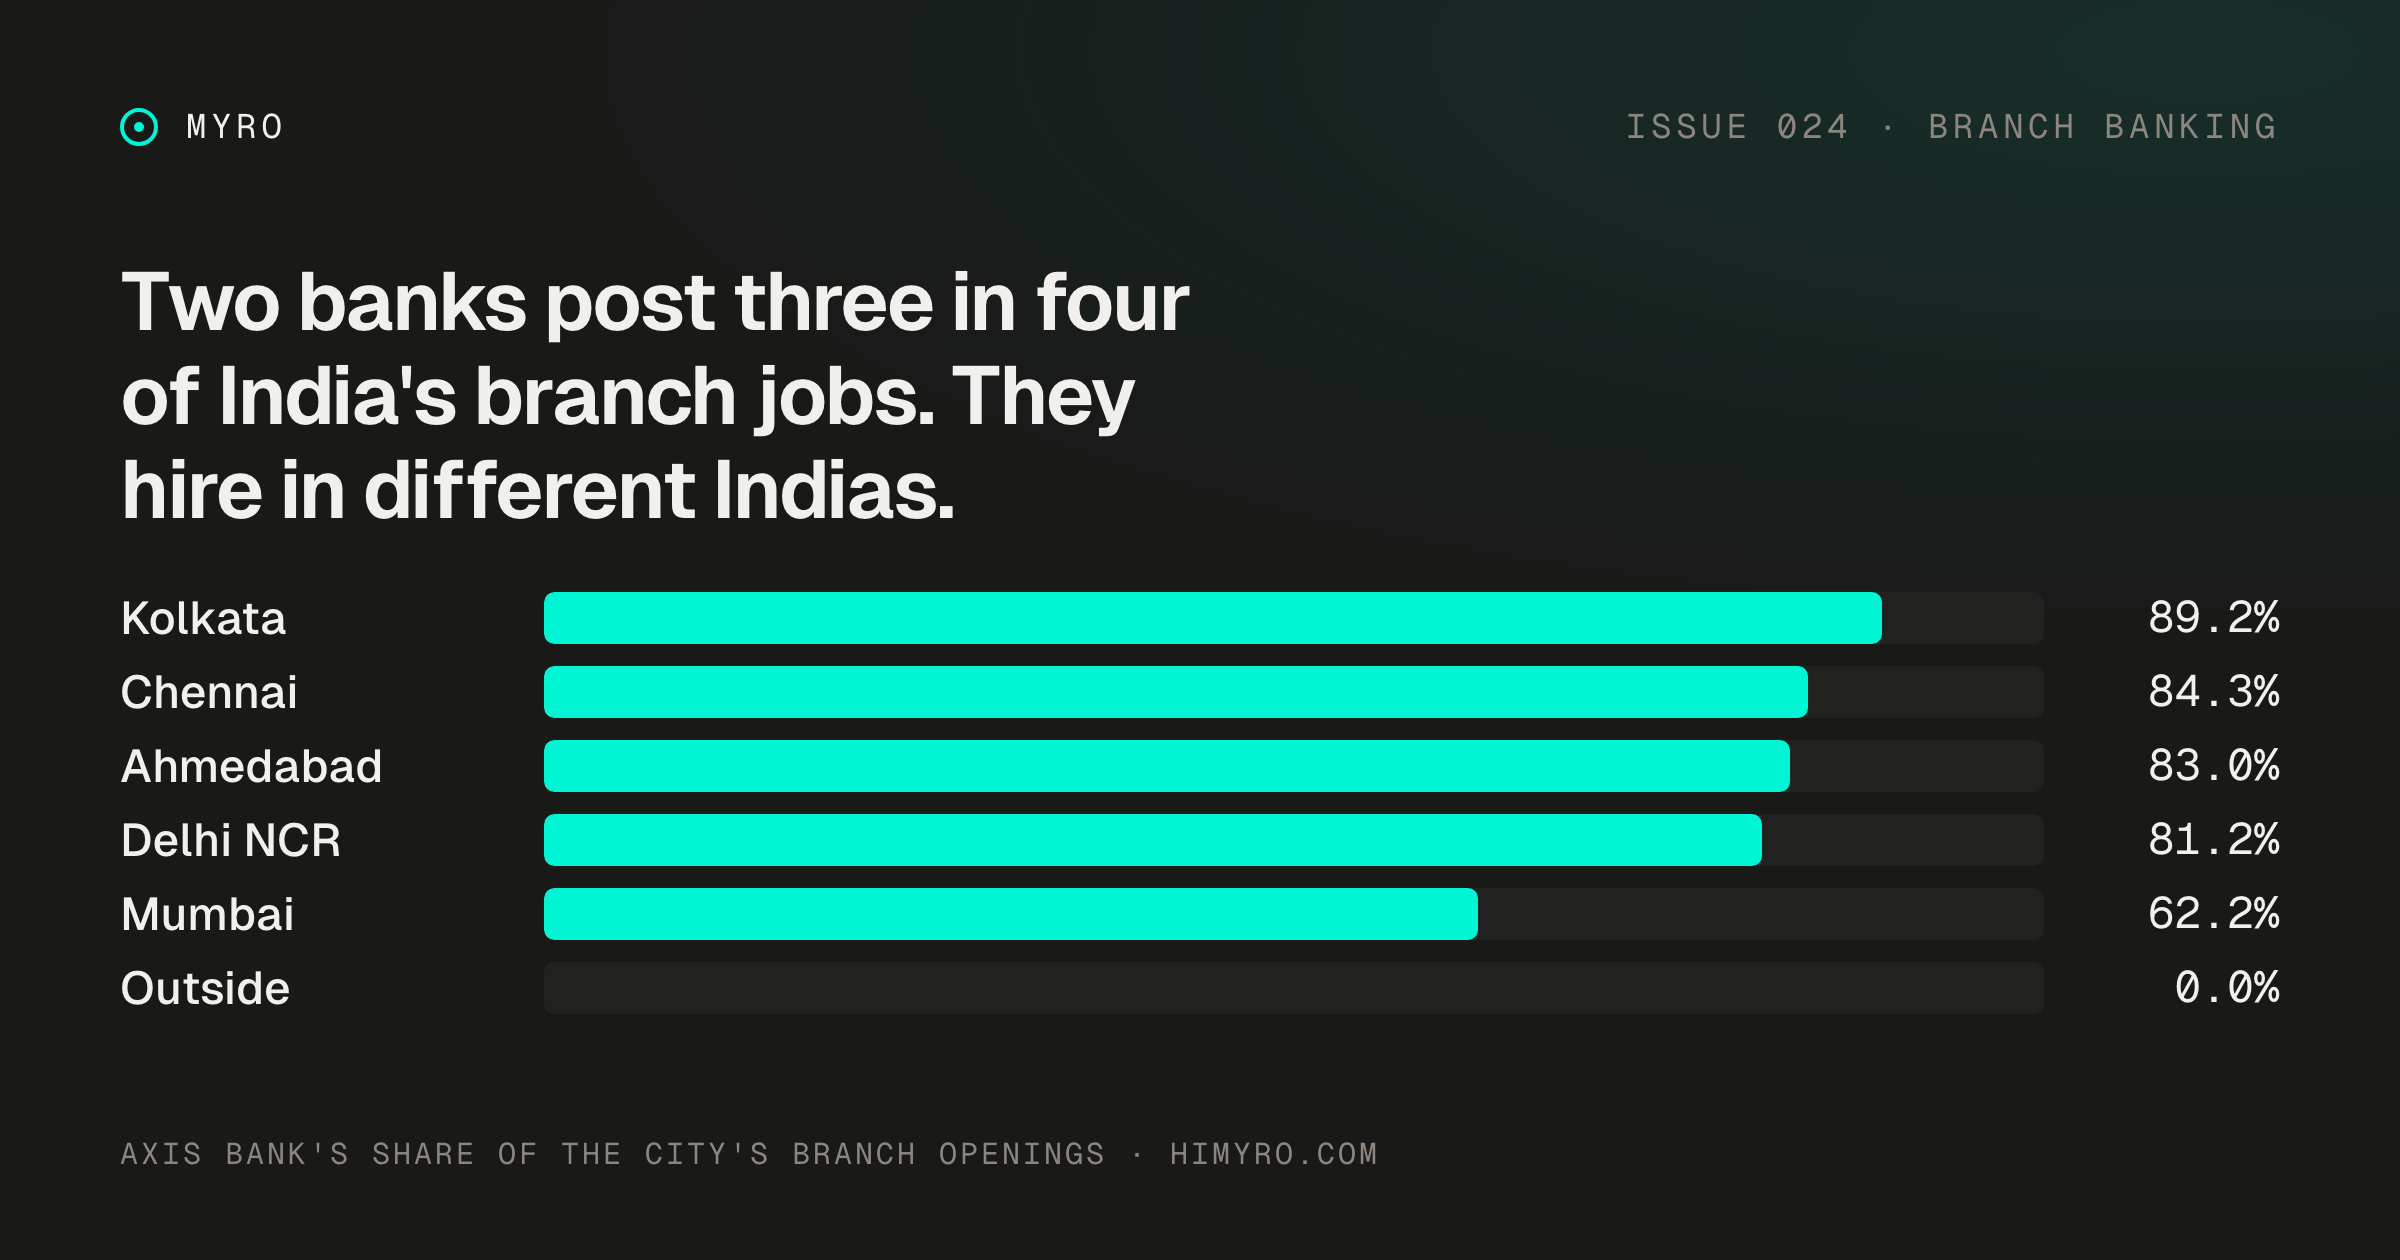
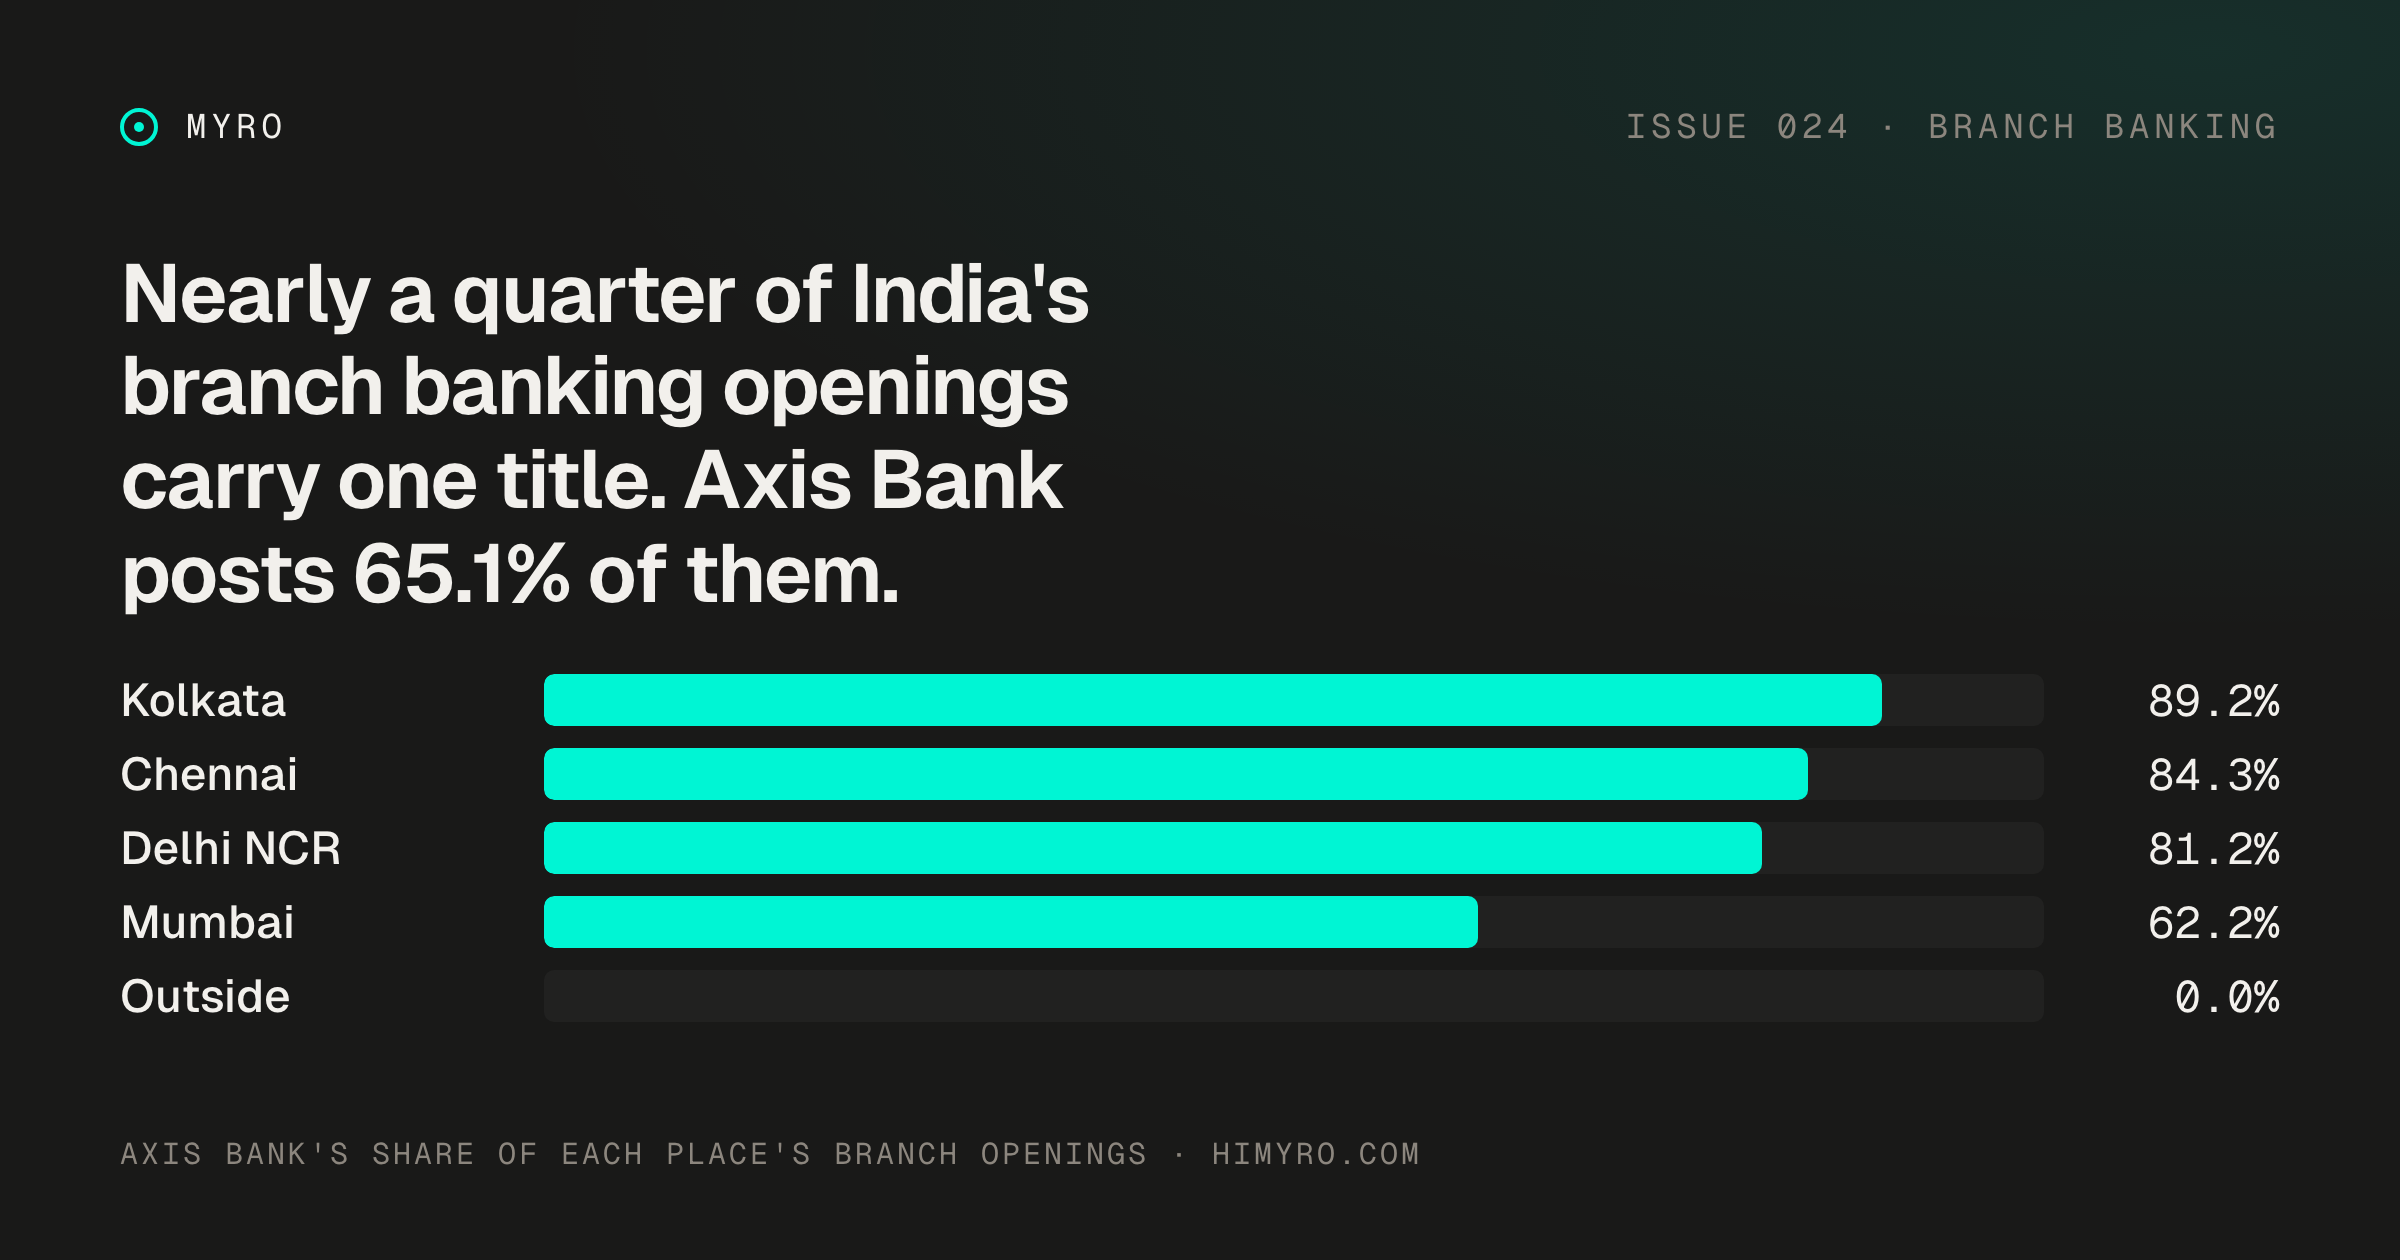
content(newsletter): issue 24 kit and carousel from the v2 text; issue 25 share image, carousel and kit
Issue 24's posting copy and slide spec still carried the v1 headline and the
wrong Kotak claim ("51.9% of its own roles" outside the metros). Both now
follow the published v2 text: 51.9% is Kotak's share of the openings outside
the big metros. The share image is re-rendered with the v2 headline.

Issue 25 gets its 1200x630 share image (employer shares, Big Four bright),
an eight-slide carousel spec with the skills matrix, and the X / LinkedIn /
Instagram copy. Every figure traces to the published article. Nothing posted.

diff --git a/scripts/newsletter-carousel-specs/issue-024-distribution.md b/scripts/newsletter-carousel-specs/issue-024-distribution.md
@@ -1,38 +1,42 @@
 # Issue 024 — where it goes
 
-Heading: Two banks post three in four of India's branch jobs. They hire in different Indias.
+Link: https://www.himyro.com/newsletter/2026-10-branch-banking-two-banks
 
-Chart: Axis Bank's share of each metro's frontline branch openings. Read 9 September 2026. Lane size 3,138.
+Heading: Nearly a quarter of India's branch banking openings carry one title. Axis Bank posts 65.1% of them.
+
+Chart: Axis Bank's share of each place's frontline branch openings. Read 9 September 2026. Lane size 3,138.
 
 ## X
 
-1. Axis Bank holds 65.1% of India's frontline branch jobs. 2,042 postings. It posts 0.0% of its roles outside the big metros.
-2. Kotak holds 10.4% of the lane and posts 51.9% of its own roles outside those metros. Surat 17, Indore 12, Rajkot 9.
-3. Kolkata's branch jobs are 71.4% entry level, at 1.7 years. Outside the metros: 6.9% entry, 3.6 years, 360 roles.
-4. One title is a quarter of the lane. Business Development Associate at Axis: 763 openings, 100% entry level, 1.0 year.
-5. The postings name sales 1,721 times, banking 1,258, lead generation 1,206, financial services 1,160, business development 1,012.
+1. One title is 24.3% of India's frontline branch banking openings. Business Development Associate (RB-LS) at Axis Bank: 763 openings, every one entry level, 1.0 year on average.
+2. Axis Bank posts 65.1% of the lane, 2,042 of 3,138. It leads every big metro, from 62.2% of Mumbai's openings to 89.2% of Kolkata's.
+3. Outside the big metros the picture flips. Axis posts 0.0% of those openings and Kotak posts 51.9%. Surat 17, Indore 12, Rajkot 9.
+4. Kolkata asks for the least: 71.4% entry level, at 1.7 years. Bengaluru is 25.8% entry level, at 4.3 years.
+5. The postings ask for sales (1,721), banking (1,258) and lead generation (1,206). The whole skill list reads like a sales job.
 
 ## LinkedIn
 
-Two banks post three in four of India's branch jobs, and they hire in different Indias.
+Nearly a quarter of India's branch banking openings carry one title, and Axis Bank posts 65.1% of them.
 
-We read 220+ career pages on 9 September 2026. 3,138 of the openings are frontline branch banking. Axis Bank holds 65.1% (2,042) and posts 0.0% of its roles outside the big metros. Kotak holds 10.4% and posts 51.9% of its own roles there.
+Our agents read 220+ MNC career pages on 9 September 2026 and pulled close to 23,000 openings. 3,138 were frontline sales and branch banking roles in India.
 
-In Kolkata the two banks hold 92.3% of branch openings. Chennai 88.5%. Ahmedabad 88.1%. Delhi NCR, the largest city in the lane at 616, is 84.7%.
+If you are starting out, start with Business Development Associate (RB-LS) at Axis. 763 openings, 24.3% of the lane, every one entry level, 1.0 year on average. Axis posts the next three titles too: Branch Relationship Officer (11.0%), Assistant Manager Sales – Corporate Salary (6.0%) and Teller (3.8%).
 
-Kolkata is 71.4% entry level at 1.7 years. The 360 roles outside the metros are 6.9% entry level at 3.6 years.
+If you want an entry-level role, Kolkata asks for the least: 71.4% of its openings are entry level, at 1.7 years. Delhi NCR follows at 51.5% and Chennai at 47.8%. Bengaluru is 25.8%, at 4.3 years.
 
-Business Development Associate (RB-LS) at Axis is 763 openings, 24.3% of the lane, 100% entry level, 1.0 year. The skills the lane names: sales 1,721, banking 1,258, lead generation 1,206, financial services 1,160, business development 1,012, banking products 789, relationship building 683, mutual funds 582, general insurance 561, retail banking 520.
+Axis leads in every big metro, from 62.2% of openings in Mumbai to 89.2% in Kolkata. Outside the big metros the picture flips: Axis's share is 0.0% and Kotak's is 51.9%.
+
+These employers ask for sales (1,721), banking (1,258), lead generation (1,206), financial services (1,160) and business development (1,012). The whole skill list reads like a sales job.
 
 ## Instagram caption
 
-Axis: 65.1% of India's branch jobs, all of them in the big metros.
-Kotak: 51.9% of its own roles outside those metros.
+One title: 24.3% of India's branch banking openings.
+Business Development Associate at Axis Bank. 763 openings, all entry level.
+
+Axis posts 65.1% of the lane. Outside the big metros, Kotak posts 51.9%.
+
+Kolkata asks for the least experience: 1.7 years.
 
 3,138 roles. Read 9 September 2026.
-
-Kolkata hires at 1.7 years. Surat, Indore and Rajkot are Kotak's map.
-
-Business Development Associate, Axis: 763 openings, entry level.
 
 Sales 1,721 · banking 1,258 · lead generation 1,206.

diff --git a/scripts/newsletter-carousel-specs/issue-025-distribution.md b/scripts/newsletter-carousel-specs/issue-025-distribution.md
@@ -1,0 +1,41 @@
+# Issue 025 — where it goes
+
+Link: https://www.himyro.com/newsletter/2026-10-risk-compliance-big-four-india
+
+Heading: Three of the Big Four post half of India's risk and compliance openings. EY alone posts 30.8%.
+
+Chart: what risk and compliance postings ask for, split All / Big Four / BFSI. 1,868 live openings in India, checked 20 October 2026.
+
+## X
+
+1. Three of the Big Four post half of India's risk and compliance openings. EY alone posts 30.8%: 575 of 1,868 live openings on 20 October 2026.
+2. EY 575, Deloitte 242, KPMG 126. Axis Bank posts 231, 37.2% of everything BFSI firms posted in the lane, and 73.2% of its roles are in Mumbai.
+3. Regulation, audit and risk management lead everywhere. The Big Four add cyber security (26.9%) and a CA (25.9%). BFSI firms add Excel (30.0%), AML and KYC (19.6%) and credit risk (18.7%).
+4. Risk analytics is 45 titles, 2.4% of the lane. Inside them, Python is in 51.1% and SAS in 33.3%. Across all 1,868 postings, SAS and Basel show up in 2.8% each.
+5. Starting out? 9.6% of the lane is entry level, at 0.7 years. At BFSI firms it is 13.8%. At the Big Four, 5.1%.
+
+## LinkedIn
+
+Three of the Big Four post half of India's risk and compliance openings. EY alone posts 30.8%.
+
+Our agents read 260+ MNC career pages and checked close to 46,500 live openings in India on 20 October 2026. 1,868 of them were risk and compliance roles.
+
+If you want risk work in India, apply to the Big Four. EY posts 575 openings, Deloitte 242 and KPMG 126. More than half of EY's, 305, sit in one practice, Business Consulting Risk. They ask for regulation, audit and a CA: 25.9% of Big Four postings name the qualification, and 34.8% of EY's.
+
+If you want a bank, Axis posts 231 risk openings, 37.2% of everything BFSI firms posted in the lane. 73.2% of them are in Mumbai. BFSI postings ask for Excel (30.0%), AML and KYC (19.6%) and credit risk (18.7%) more than the Big Four do.
+
+If you came for risk analytics, 45 titles say analytics, 2.4% of the lane. Inside them, Python is in 51.1% and SAS in 33.3%. Across the whole lane, SAS and Basel appear in 2.8% of postings each.
+
+If you are starting out, 9.6% of the lane is entry level, at 0.7 years. Axis posts 39 of those openings and EY 35.
+
+## Instagram caption
+
+EY: 30.8% of India's risk and compliance openings.
+EY, Deloitte and KPMG together: 50.5%.
+
+Big Four ask for a CA: 25.9% of their postings.
+BFSI firms ask for Excel, AML and KYC, and credit risk.
+
+Risk analytics: 45 titles, 2.4% of the lane.
+
+1,868 live openings. Checked 20 October 2026.
